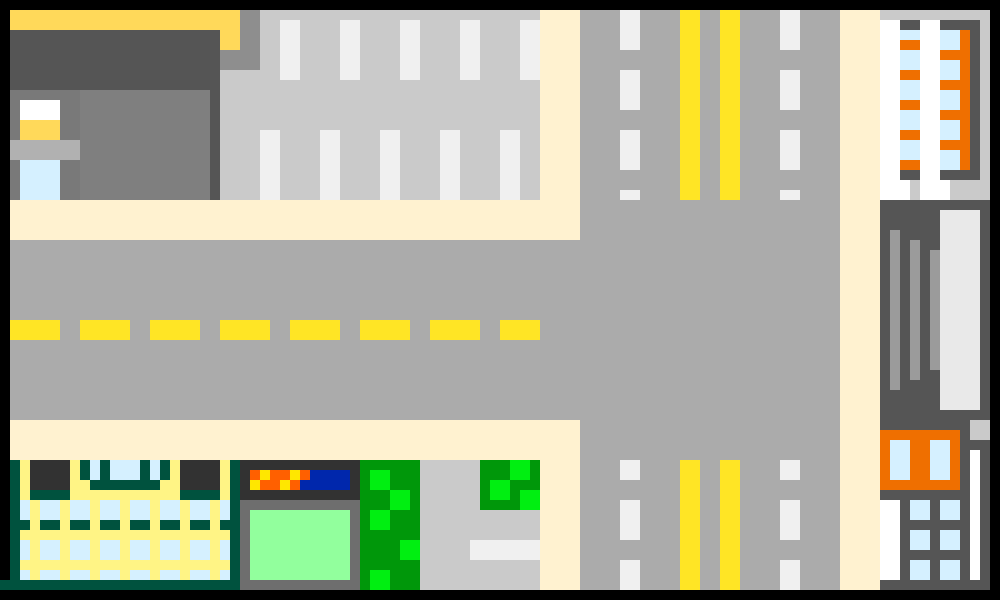
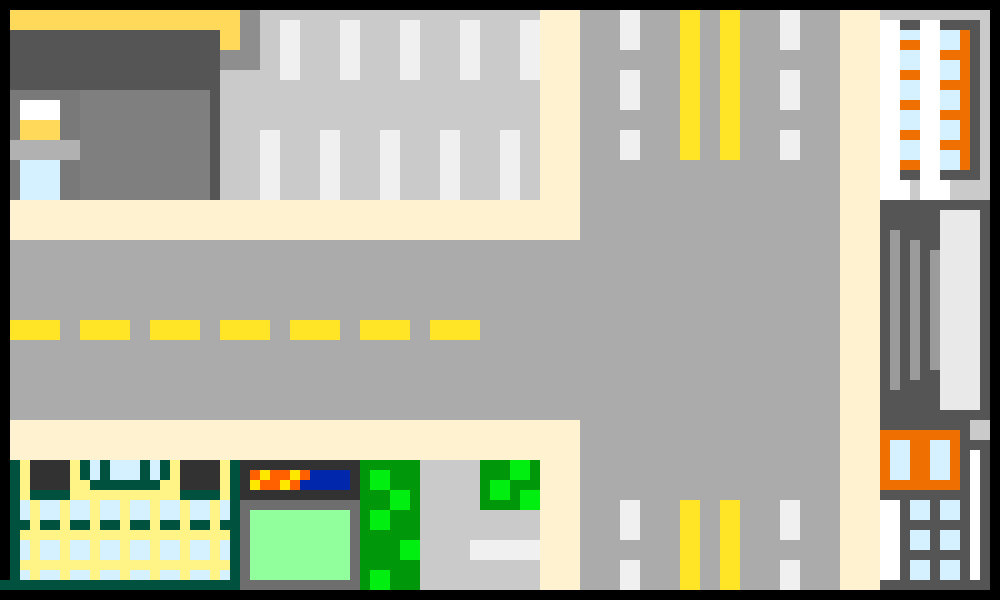
adjusted placement of crosswalks, stoplights, finish, and scene checks. added lane conditional scene checks to downtown.js, added arrow that disappears when player gets near, and controls text in postoffice.js that disappears when player moves. also created a cover to look seamless when player moves

diff --git a/src/scenes/Intersection.js b/src/scenes/Intersection.js
@@ -12,11 +12,19 @@ class Intersection extends Phaser.Scene {
         // background
         this.letterbg = this.add.tileSprite(0, 0, 1200, 800, 'letterbg').setOrigin(0, 0).setDepth(0)
         this.intersection = this.add.tileSprite(100, 105, 1000, 600, 'intersection').setOrigin(0, 0).setDepth(1)
-        this.stoplight = this.add.tileSprite(50, 165, 850, 640, 'stoplight').setOrigin(0, 0).setDepth(3).setFrame(1)
-        this.crosswalk = this.add.tileSprite(350, 442, 64, 100, 'crosswalk').setOrigin(0, 0).setDepth(1)
-        this.scenecheck1 = this.add.tileSprite(100, 445, 3, 100, 'scenecheck').setOrigin(0, 0).setDepth(1)
+        this.stoplight1 = this.add.tileSprite(165, 175, 126, 75, 'stoplight').setOrigin(0, 0).setDepth(3).setFrame(1)
+        this.stoplight2 = this.add.tileSprite(325, 490, 126, 75, 'stoplight').setOrigin(0, 0).setDepth(3).setFrame(1).setFlipX(true)
+        this.stoplight3 = this.add.tileSprite(480, 275, 126, 75, 'stoplight').setOrigin(0, 0).setDepth(3).setFrame(1).setAngle(90).setFlipY(true)
+        this.stoplight4 = this.add.tileSprite(210, 410, 126, 75, 'stoplight').setOrigin(0, 0).setDepth(3).setFrame(1).setAngle(90).setFlipX(true)
+        this.crosswalk1 = this.add.tileSprite(440, 290, 55, 230, 'crosswalk').setOrigin(0, 0).setDepth(1)
+        this.crosswalk2 = this.add.tileSprite(125, 270, 55, 250, 'crosswalk').setOrigin(0, 0).setDepth(1)
+        this.crosswalk3 = this.add.tileSprite(435, 525, 55, 250, 'crosswalk').setOrigin(0, 0).setDepth(1).setAngle(90)
+        this.crosswalk4 = this.add.tileSprite(415, 210, 55, 230, 'crosswalk').setOrigin(0, 0).setDepth(1).setAngle(90)
+        this.scenecheck = this.add.tileSprite(160, 730, 300, 3, 'scenecheck').setOrigin(0, 0).setDepth(1)
+        //this.cover = this.add.tileSprite(0, 0, 1200, 800, 'cover').setOrigin(0, 0).setDepth(3)
+        this.arrow = this.add.tileSprite(235, 720, 150, 150, 'arrow').setOrigin(0, 0).setDepth(1).setAngle(270)
 
-        this.truck = new Truck(this, 825, 300, 'truckwidespritesheet', 0).setDepth(2)
+        this.truck = new Truck(this, 825, 320, 'truckwidespritesheet', 0).setDepth(2)
 
         // x, y, width, height
         //this.collcheck1 = this.add.rectangle(710, 390, 180, 305, 0xff0000).setOrigin(0, 0).setDepth(1).setAlpha(0)
@@ -33,8 +41,16 @@ class Intersection extends Phaser.Scene {
         this.truckFSM.step()
 
         // scene transition
-        if (this.checkCollision(this.truck, this.scenecheck1)) {
+        if (this.checkCollision(this.truck, this.scenecheck)) {
             this.scene.start('apartmentScene')
+        }
+
+        // bug workaround
+        if (Phaser.Geom.Intersects.RectangleToRectangle(
+            this.truck.getBounds(),
+            this.arrow.getBounds()
+        )) {
+            this.arrow.setAlpha(0)
         }
 
         // check wall collisions
@@ -62,13 +78,4 @@ class Intersection extends Phaser.Scene {
             obj1.y + obj1.height > obj2.y
         )
     }
-
-    //checkTruckCollisions() {
-        //return (
-            //this.checkCollision(this.truck, this.collcheck1) ||
-            //this.checkCollision(this.truck, this.collcheck2) ||
-            //this.checkCollision(this.truck, this.collcheck3) ||
-            //this.checkCollision(this.truck, this.collcheck4)
-        //)
-    //}
 }

diff --git a/src/scenes/Envelope.js b/src/scenes/Envelope.js
@@ -17,19 +17,20 @@ class Envelope extends Phaser.Scene {
         this.load.image('truck', 'truckwide.png')
         this.load.image('finish', 'finish.png')
         this.load.image('crosswalk', 'crosswalk.png')
-        this.load.image('crosswalkside', 'crosswalkside.png')
         this.load.image('downtown', 'downtown.png')
         this.load.image('river', 'river.png')
         this.load.image('intersection', 'intersection.png')
         this.load.image('apartment', 'apartment.png')
         this.load.image('scenecheck', 'scenecheck.png')
+        this.load.image('arrow', 'arrow.png')
+        this.load.image('cover', 'cover.png')
 
         this.load.audio('bgmusic', 'bgmusic.wav')
         this.load.audio('rip', '804445__geoff-bremner-audio__paper-rip-18.wav')
 
         this.load.spritesheet('stoplight', 'stoplight.png', {
-            frameWidth: 850,
-            frameHeight: 640
+            frameWidth: 126,
+            frameHeight: 129
         })
 
         this.load.spritesheet('truckwidespritesheet', 'truckwidespritesheet.png', {
@@ -42,7 +43,7 @@ class Envelope extends Phaser.Scene {
 
         let menuConfig = {
             fontFamily: 'Verdana',
-            fontSize: '100px',
+            fontSize: '75px',
             color: '#ffffff',
             align: 'right',
             padding: {
@@ -55,8 +56,8 @@ class Envelope extends Phaser.Scene {
     // start on frame 0
         this.envelope = this.add.sprite(0, 0, 'envelopespritesheet', 0).setOrigin(0, 0).setDepth(0)
         
-        this.text1 = this.add.text(610, 260, "You've got mail!", menuConfig).setOrigin(0.5).setDepth(1)
-        this.text2 = this.add.text(610, 400, "Click to open", menuConfig).setOrigin(0.5).setDepth(1)
+        this.text1 = this.add.text(610, 140, "You've got mail!", menuConfig).setOrigin(0.5).setDepth(1)
+        this.text2 = this.add.text(610, 220, "Click to open", menuConfig).setOrigin(0.5).setDepth(1)
 
         this.key1 = this.input.keyboard.addKey(Phaser.Input.Keyboard.KeyCodes.ONE)
         this.key2 = this.input.keyboard.addKey(Phaser.Input.Keyboard.KeyCodes.TWO)
@@ -70,7 +71,7 @@ class Envelope extends Phaser.Scene {
                 this.sound.play('rip')
                 this.time.delayedCall(100, () => {
                     this.envelope.setFrame(1)
-                    this.text1.setText('Click again to play')
+                    this.text1.setVisible(false)
                     this.text2.setVisible(false)
                 })
             } else {

diff --git a/src/scenes/Apartment.js b/src/scenes/Apartment.js
@@ -6,17 +6,29 @@ class Apartment extends Phaser.Scene {
     create() { 
         this.letterbg = this.add.tileSprite(0, 0, 2000, 800, 'letterbg').setOrigin(0, 0).setDepth(0)
         this.apartment = this.add.tileSprite(100, 105, 1000, 600, 'apartment').setOrigin(0, 0).setDepth(0)
-        this.stoplight1 = this.add.tileSprite(420, -135, 850, 640, 'stoplight').setOrigin(0, 0).setDepth(3).setFrame(1)
-        this.crosswalk1 = this.add.tileSprite(710, 137, 64, 100, 'crosswalk').setOrigin(0, 0).setDepth(1)
-        this.stoplight2 = this.add.tileSprite(265, 730, 850, 640, 'stoplight').setOrigin(0, 0).setDepth(3).setAngle(-90).setFrame(1)
-        this.crosswalk2 = this.add.tileSprite(542, 380, 100, 64, 'crosswalkside').setOrigin(0, 0).setDepth(1)
-        this.finish = this.add.tileSprite(240, 550, 100, 64, 'finish').setOrigin(0, 0).setDepth(1)
-        this.truck = new Truck(this, 900, 180, 'truckwidespritesheet', 0).setDepth(2)
+        this.stoplight1 = this.add.tileSprite(670, 260, 126, 75, 'stoplight').setOrigin(0, 0).setDepth(3).setFrame(1)
+        this.stoplight2 = this.add.tileSprite(825, 490, 126, 75, 'stoplight').setOrigin(0, 0).setDepth(3).setFrame(1).setFlipX(true)
+        this.stoplight3 = this.add.tileSprite(710, 410, 126, 75, 'stoplight').setOrigin(0, 0).setDepth(3).setFrame(1).setAngle(90).setFlipX(true)
+        this.crosswalk1 = this.add.tileSprite(625, 345, 55, 180, 'crosswalk').setOrigin(0, 0).setDepth(1)
+        this.crosswalk2 = this.add.tileSprite(938, 523, 55, 255, 'crosswalk').setOrigin(0, 0).setDepth(1).setAngle(90)
+        this.crosswalk3 = this.add.tileSprite(938, 289, 55, 255, 'crosswalk').setOrigin(0, 0).setDepth(1).setAngle(90)
+        this.finish = this.add.tileSprite(185, 455, 80, 64, 'finish').setOrigin(0, 0).setDepth(1)
+        this.truck = new Truck(this, 810, 130, 'truckwidespritesheet', 1).setDepth(2)
+        this.cover = this.add.tileSprite(0, 0, 1200, 800, 'cover').setOrigin(0, 0).setDepth(3)
+        this.arrow = this.add.tileSprite(250, 410, 150, 150, 'arrow').setOrigin(0, 0).setDepth(1)
         this.cursors = this.input.keyboard.createCursorKeys()
     }
 
     update() {
         this.truckFSM.step()
+
+        // bug workaround
+        if (Phaser.Geom.Intersects.RectangleToRectangle(
+            this.truck.getBounds(),
+            this.arrow.getBounds()
+        )) {
+            this.arrow.setAlpha(0)
+        }
     }
 
     checkCollision(obj1, obj2) {

diff --git a/src/scenes/PostOffice.js b/src/scenes/PostOffice.js
@@ -9,12 +9,28 @@ class PostOffice extends Phaser.Scene {
             loop: true
         })
         this.bgm.play()
+
+        let menuConfig = {
+            fontFamily: 'Verdana',
+            fontSize: '35px',
+            color: '#ffffff',
+            align: 'right',
+            padding: {
+                top: 5,
+                bottom: 5,
+            },
+            fixedWidth: 0
+        }
+
         // background
         this.letterbg = this.add.tileSprite(0, 0, 1200, 800, 'letterbg').setOrigin(0, 0).setDepth(0)
         this.postoffice = this.add.tileSprite(100, 105, 1000, 600, 'postoffice').setOrigin(0, 0).setDepth(1)
-        this.scenecheck1 = this.add.tileSprite(100, 590, 3, 100, 'scenecheck').setOrigin(0, 0).setDepth(1)
+        this.scenecheck = this.add.tileSprite(100, 590, 3, 100, 'scenecheck').setOrigin(0, 0).setDepth(1)
+        this.cover = this.add.tileSprite(0, 0, 1200, 800, 'cover').setOrigin(0, 0).setDepth(3)
 
-        this.truck = new Truck(this, 825, 300, 'truckwidespritesheet', 0).setDepth(2)
+        this.text1 = this.add.text(610, 430, 'Use arrow keys to move', menuConfig).setOrigin(0.5).setDepth(1)
+
+        this.truck = new Truck(this, 1000, 360, 'truckwidespritesheet', 1).setDepth(2)
 
         // x, y, width, height
         //this.collcheck1 = this.add.rectangle(710, 390, 180, 305, 0xff0000).setOrigin(0, 0).setDepth(1).setAlpha(0)
@@ -31,8 +47,17 @@ class PostOffice extends Phaser.Scene {
         this.truckFSM.step()
 
         // scene transition
-        if (this.checkCollision(this.truck, this.scenecheck1)) {
+        if (this.checkCollision(this.truck, this.scenecheck)) {
             this.scene.start('downtownScene')
+        }
+
+        if (
+            Phaser.Input.Keyboard.JustDown(this.cursors.left) ||
+            Phaser.Input.Keyboard.JustDown(this.cursors.right) ||
+            Phaser.Input.Keyboard.JustDown(this.cursors.up) ||
+            Phaser.Input.Keyboard.JustDown(this.cursors.down)
+        ) {
+            this.text1.setVisible(false)
         }
 
         // check wall collisions

diff --git a/src/scenes/Downtown.js b/src/scenes/Downtown.js
@@ -12,11 +12,11 @@ class Downtown extends Phaser.Scene {
         // background
         this.letterbg = this.add.tileSprite(0, 0, 1200, 800, 'letterbg').setOrigin(0, 0).setDepth(0)
         this.downtown = this.add.tileSprite(100, 105, 1000, 600, 'downtown').setOrigin(0, 0).setDepth(1)
-        this.stoplight = this.add.tileSprite(50, 165, 850, 640, 'stoplight').setOrigin(0, 0).setDepth(3).setFrame(1)
-        this.crosswalk = this.add.tileSprite(350, 442, 64, 100, 'crosswalk').setOrigin(0, 0).setDepth(1)
-        this.scenecheck1 = this.add.tileSprite(100, 445, 3, 100, 'scenecheck').setOrigin(0, 0).setDepth(1)
+        this.scenecheck1 = this.add.tileSprite(100, 260, 3, 20, 'scenecheck').setOrigin(0, 0).setDepth(1)
+        this.scenecheck2 = this.add.tileSprite(100, 340, 3, 20, 'scenecheck').setOrigin(0, 0).setDepth(1)
+        //this.cover = this.add.tileSprite(0, 0, 1200, 800, 'cover').setOrigin(0, 0).setDepth(3)
 
-        this.truck = new Truck(this, 825, 300, 'truckwidespritesheet', 0).setDepth(2)
+        this.truck = new Truck(this, 1060, 320, 'truckwidespritesheet', 0).setDepth(2)
 
         // x, y, width, height
         //this.collcheck1 = this.add.rectangle(710, 390, 180, 305, 0xff0000).setOrigin(0, 0).setDepth(1).setAlpha(0)
@@ -32,9 +32,12 @@ class Downtown extends Phaser.Scene {
     update(time) {
         this.truckFSM.step()
 
-        // scene transition
+        // conditional scene transition with coords
         if (this.checkCollision(this.truck, this.scenecheck1)) {
-            this.scene.start('riverScene')
+            this.scene.start('riverScene', { x: 1100, y: 260 })
+        }
+        if (this.checkCollision(this.truck, this.scenecheck2)) {
+            this.scene.start('riverScene', { x: 1100, y: 325 })
         }
 
         // check wall collisions

diff --git a/src/prefabs/Truck.js b/src/prefabs/Truck.js
@@ -14,12 +14,9 @@ class Truck extends Phaser.GameObjects.Sprite {
 
 // state classes
 class StopState extends State {
-
     enter(scene, truck) {
     }
-
     execute(scene, truck) {
-
         if (
             scene.cursors.left.isDown ||
             scene.cursors.right.isDown ||
@@ -28,14 +25,11 @@ class StopState extends State {
         ) {
             this.stateMachine.transition('drive')
         }
-
     }
 }
 
 class DriveState extends State {
-
     execute(scene, truck) {
-
         const speed = 2.5
         let moving = false
 
@@ -46,7 +40,6 @@ class DriveState extends State {
             truck.x -= speed
             moving = true
         }
-
         else if (scene.cursors.right.isDown) {
             truck.setFrame(0)
             truck.setFlipX(true)
@@ -54,7 +47,6 @@ class DriveState extends State {
             truck.x += speed
             moving = true
         }
-
         else if (scene.cursors.down.isDown) {
             truck.setFrame(1)
             truck.setFlipX(false)
@@ -62,7 +54,6 @@ class DriveState extends State {
             truck.y += speed
             moving = true
         }
-
         else if (scene.cursors.up.isDown) {
             truck.setFrame(1)
             truck.setFlipX(false)
@@ -70,10 +61,8 @@ class DriveState extends State {
             truck.y -= speed
             moving = true
         }
-
         if (!moving) {
             this.stateMachine.transition('stop')
         }
-
     }
 }

diff --git a/src/scenes/River.js b/src/scenes/River.js
@@ -3,18 +3,19 @@ class River extends Phaser.Scene {
         super('riverScene')
     }
 
-    create() { 
+    create(data) { 
         this.letterbg = this.add.tileSprite(0, 0, 1200, 800, 'letterbg').setOrigin(0, 0).setDepth(0)
         this.river = this.add.tileSprite(100, 105, 1000, 600, 'river').setOrigin(0, 0).setDepth(0)
-        this.scenecheck2 = this.add.tileSprite(100, 350, 3, 100, 'scenecheck').setOrigin(0, 0).setDepth(1)
-        this.truck = new Truck(this, 900, 390, 'truckwidespritesheet', 0)
+        this.truck = new Truck(this, data.x, data.y, 'truckwidespritesheet', 0)
+        this.scenecheck = this.add.tileSprite(100, 250, 3, 300, 'scenecheck').setOrigin(0, 0).setDepth(1)
+        this.cover = this.add.tileSprite(0, 0, 1200, 800, 'cover').setOrigin(0, 0).setDepth(3)
         this.cursors = this.input.keyboard.createCursorKeys()
     }
 
     update() {
         this.truckFSM.step()
 
-        if (this.checkCollision(this.truck, this.scenecheck2)) {
+        if (this.checkCollision(this.truck, this.scenecheck)) {
             this.scene.start('intersectionScene')
         }
     }
